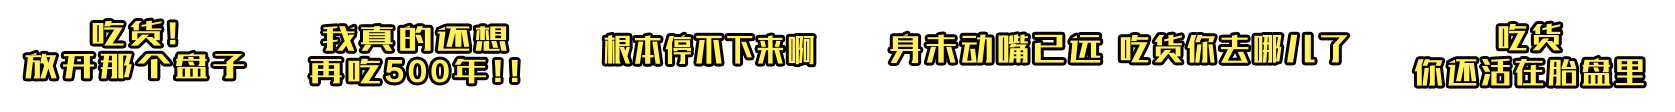
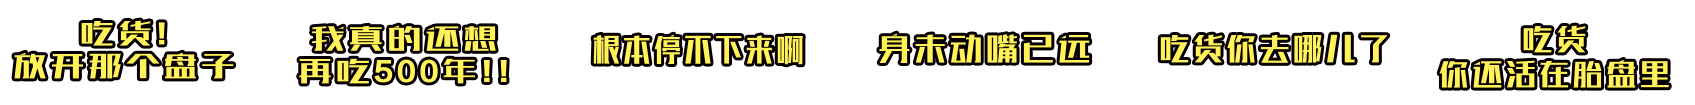
eleven

Changed region(s): [[0.3415, 0.1714, 0.9934, 0.8857], [0.0, 0.1429, 0.3104, 0.8286]]

diff --git a/index2.html b/index2.html
@@ -1,0 +1,178 @@
+<!DOCTYPE html>
+<html>
+<head lang="en">
+    <meta charset="UTF-8">
+    <meta name="viewport" content="width=device-width,initial-scale=1,maximum-scale=1" />
+    <meta content="yes" name="apple-mobile-web-app-capable"/>
+    <meta content="black" name="apple-mobile-web-app-status-bar-style"/>
+    <meta content="telephone=no" name="format-detection"/>
+    <meta content="email=no" name="format-detection"/>
+    <title></title>
+    <link href="//cdn.bootcss.com/Swiper/3.3.1/css/swiper.min.css" rel="stylesheet">
+    <script>
+        window.onload = function(){
+            var swiper = document.getElementById("swiper");
+            var scale = window.screen.height / window.screen.width;
+            swiper.style.height = document.body.clientWidth * scale + "px";
+            console.log(swiper.style.height);
+        };
+    </script>
+    <style>
+        * {
+            margin: 0;
+            padding: 0;
+            box-sizing:border-box;
+        }
+        .swiper-wrapper {
+
+        }
+        .first{
+            background:url('img/home_02.jpg') no-repeat;
+        }
+        .bg-size{
+            background-size:100% 100%;
+        }
+        .erweima{width:70%;margin:0 auto;margin-top:20px;}
+    </style>
+</head>
+<body>
+<div class="swiper-container" id="swiper">
+    <div class="swiper-wrapper">
+        <div class="swiper-slide first bg-size">
+        </div>
+        <div class="swiper-slide second bg-size" >
+            <h4>看图猜零食</h4>
+            <img src="https://ss1.bdstatic.com/70cFuXSh_Q1YnxGkpoWK1HF6hhy/it/u=373961189,2289021108&fm=116&gp=0.jpg" alt=""/>
+            <form action="" data-num="0">
+                <input type="radio" name="one" id="first" tabindex="1"/><label for="first">3+2</label><br/>
+                <input type="radio" name="one" id="second" tabindex="2"/><label for="second">奥利奥</label><br/>
+                <input type="radio" name="one" id="third" tabindex="3"/><label for="third">冰激凌</label><br/>
+                <input type="radio" name="one" id="fourth" tabindex="4"/><label for="fourth">榴莲糖</label><br/>
+            </form>
+        </div>
+        <div class="swiper-slide third bg-size">
+            <h4>谁叫黄飞鸿</h4>
+            <form action="" data-num="1">
+                <input type="radio" name="two" id="fifth" tabindex="1"/><label for="fifth">毛豆</label><br/>
+                <input type="radio" name="two" id="sixth" tabindex="2"/><label for="sixth">花生</label><br/>
+                <input type="radio" name="two" id="seventh" tabindex="3"/><label for="seventh">瓜子</label><br/>
+            </form>
+        </div>
+        <div class="swiper-slide fourth bg-size" >
+            <h4>四川麻婆豆腐好吃又有名,他的创始人是</h4>
+            <form action="" data-num="2">
+                <input type="radio" name="three" tabindex="1"/><label for="">王麻婆</label><br/>
+                <input type="radio" name="three" tabindex="2"/><label for="">陈麻婆</label><br/>
+                <input type="radio" name="three" tabindex="3"/><label for="">李麻婆</label><br/>
+            </form>
+        </div>
+        <div class="swiper-slide fifth bg-size">
+            <h4>你知道被誉为"川菜第一菜"的是</h4>
+            <form action="" data-num="3">
+                <input type="radio" name="four"  tabindex="1"/><label for="">鱼香肉丝</label><br/>
+                <input type="radio" name="four" tabindex="2"/><label for="">回锅肉</label><br/>
+                <input type="radio" name="four" tabindex="3"/><label for="">水煮肉片</label><br/>
+            </form>
+        </div>
+        <div class="swiper-slide sixth bg-size" >
+            <h4>以下四道名菜属于全素菜的是</h4>
+            <form action="" data-num="4">
+                <input type="radio" name="seven" tabindex="1"/><label for="">童子敬观音</label><br/>
+                <input type="radio" name="seven" tabindex="2"/><label for="">八仙过海闹罗汉</label><br/>
+                <input type="radio" name="seven" tabindex="3"/><label for="">佛跳墙</label><br/>
+                <input type="radio" name="seven" tabindex="4"/><label for="">鼎湖罗汉斋</label><br/>
+            </form>
+        </div>
+        <div class="swiper-slide seventh bg-size">
+            <h4>黄晓明代言了以下哪个零食品牌</h4>
+            <form action="" data-num="5">
+                <input type="radio" name="eight" tabindex="1"/><label for="">三只松鼠</label><br/>
+                <input type="radio" name="eight" tabindex="2"/><label for="">德芙巧克力</label><br/>
+                <input type="radio" name="eight" tabindex="3"/><label for="">MM豆</label><br/>
+                <input type="radio" name="eight" tabindex="4"/><label for="">百草味</label><br/>
+            </form>
+        </div>
+        <div class="swiper-slide eighth bg-size">
+            <h4>农夫山泉PH值在哪个范围内</h4>
+            <form action="" data-num="6">
+                <input type="radio" name="nine" tabindex="1"/><label for="">小于5</label><br/>
+                <input type="radio" name="nine" tabindex="2"/><label for="">大于6.8小于7.8</label><br/>
+                <input type="radio" name="nine" tabindex="3"/><label for="">大于8小于12.5</label><br/>
+                <input type="radio" name="nine" tabindex="4"/><label for="">大于12.5</label><br/>
+            </form>
+        </div>
+        <div class="swiper-slide ninth bg-size">
+            <h4>以下说法错误的是</h4>
+            <form action="" data-num="7">
+                <input type="radio" name="ten" tabindex="1"/><label for="">夫妻肺片无肺</label><br/>
+                <input type="radio" name="ten" tabindex="2"/><label for="">北京炒肝无肝</label><br/>
+                <input type="radio" name="ten" tabindex="3"/><label for="">广东肠粉无肠</label><br/>
+                <input type="radio" name="ten" tabindex="3"/><label for="">太原头脑无脑</label><br/>
+            </form>
+            <input type="button" id="submit" value="提交"/>
+        </div>
+    </div>
+</div>
+<script src="//cdn.bootcss.com/Swiper/3.3.1/js/swiper.min.js"></script>
+<script>
+    Games.init();
+    var mySwiper = new Swiper('.swiper-container',{
+        width:window.innerWidth,
+        height:window.innerHeight,
+        direction:'vertical',
+        allowSwipeToPrev : false,
+        loop:false,
+        lazyLoading:true,
+        lazyLoadingInPrevNext:true,
+        lazyLoadingInPrevNextAmount :1,
+    })
+    var Games = {
+        answerNum:[2,2,2,2,4,1,2,2],
+        totalScore:0,
+        init:function(){
+            document.querySelector('#ceshi').addEventListener('touchend',Games.judge.bind(this),false);
+            document.querySelector('#submit').addEventListener('touchend',Games.getCoupon.bind(this),false);
+        },
+        judge:function(e){
+            var _self = this,target = e.target,parent = e.target.parentNode;
+
+            if(parent.nodeName.toLowerCase() == 'form'){
+                var number = Number(parent.dataset['num']);
+                if(target.type == 'radio') {
+                    var s = target.getAttribute('tabindex');
+                    if(Games.answerNum[number] == s){
+                        _self.totalScore +=10;
+                    }
+                }
+                console.log(_self.totalScore);
+            }
+        },
+        getCoupon:function(){
+            console.log(1);
+            alert(2);
+            var _self = this;
+            var score = _self.totalScore;
+            if (score == 100) {
+                _self.content = '我真的还想再吃500年';
+            } else if (score >= 90 && score < 100) {
+                _self.content = '吃货,放开那个盘子';
+            } else if (score >= 80 && score < 90) {
+                _self.content = '根本停不下来';
+            } else if (score >= 60 && score < 80) {
+                _self.content = '身未动嘴已远';
+            } else if (score >= 40 && score < 60) {
+                _self.content = '吃货你去哪儿了';
+            } else if ( score < 40) {
+                _self.content = '吃货,你还在胎盘里';
+            }
+            var str = '<div class="swiper-slide"><h4>'+_self.content+'</h4><img src="images/erweima.png"></div>'
+            var m = document.querySelector('#submit').parentNode;
+            m.className ="swiper-slide"
+            m.innerHTML = str;
+
+        }
+
+    }
+</script>
+</body>
+</html>

diff --git a/css/index.css b/css/index.css
@@ -216,27 +216,27 @@ img{height:100%;}
 }
 
 .assess {
-    margin:43px auto 0;
+    margin:46px auto 0;
     width:80%;
     height:62px;
     background:url('../img/chihuo.png') no-repeat;
-    background-position-x: 0px;
-    background-position-y: -18px;
+    background-position-x: 7px;
+    background-position-y: -26px;
 }
 .chihuo1 {
-    background-position-x: -1403px;
+    background-position-x: -1419px;
 }
 .chihuo2 {
-    background-position-x: -1104px;
+    background-position-x: -1141px;
 }
 .chihuo4 {
-    background-position-x: -282px;
+    background-position-x: -275px;
 }
 .chihuo6 {
-    background-position-x: -579px;
+    background-position-x: -569px;
 }
 .chihuo5 {
-    background-position-x: -861px;
+    background-position-x: -856px;
 }
 
 
